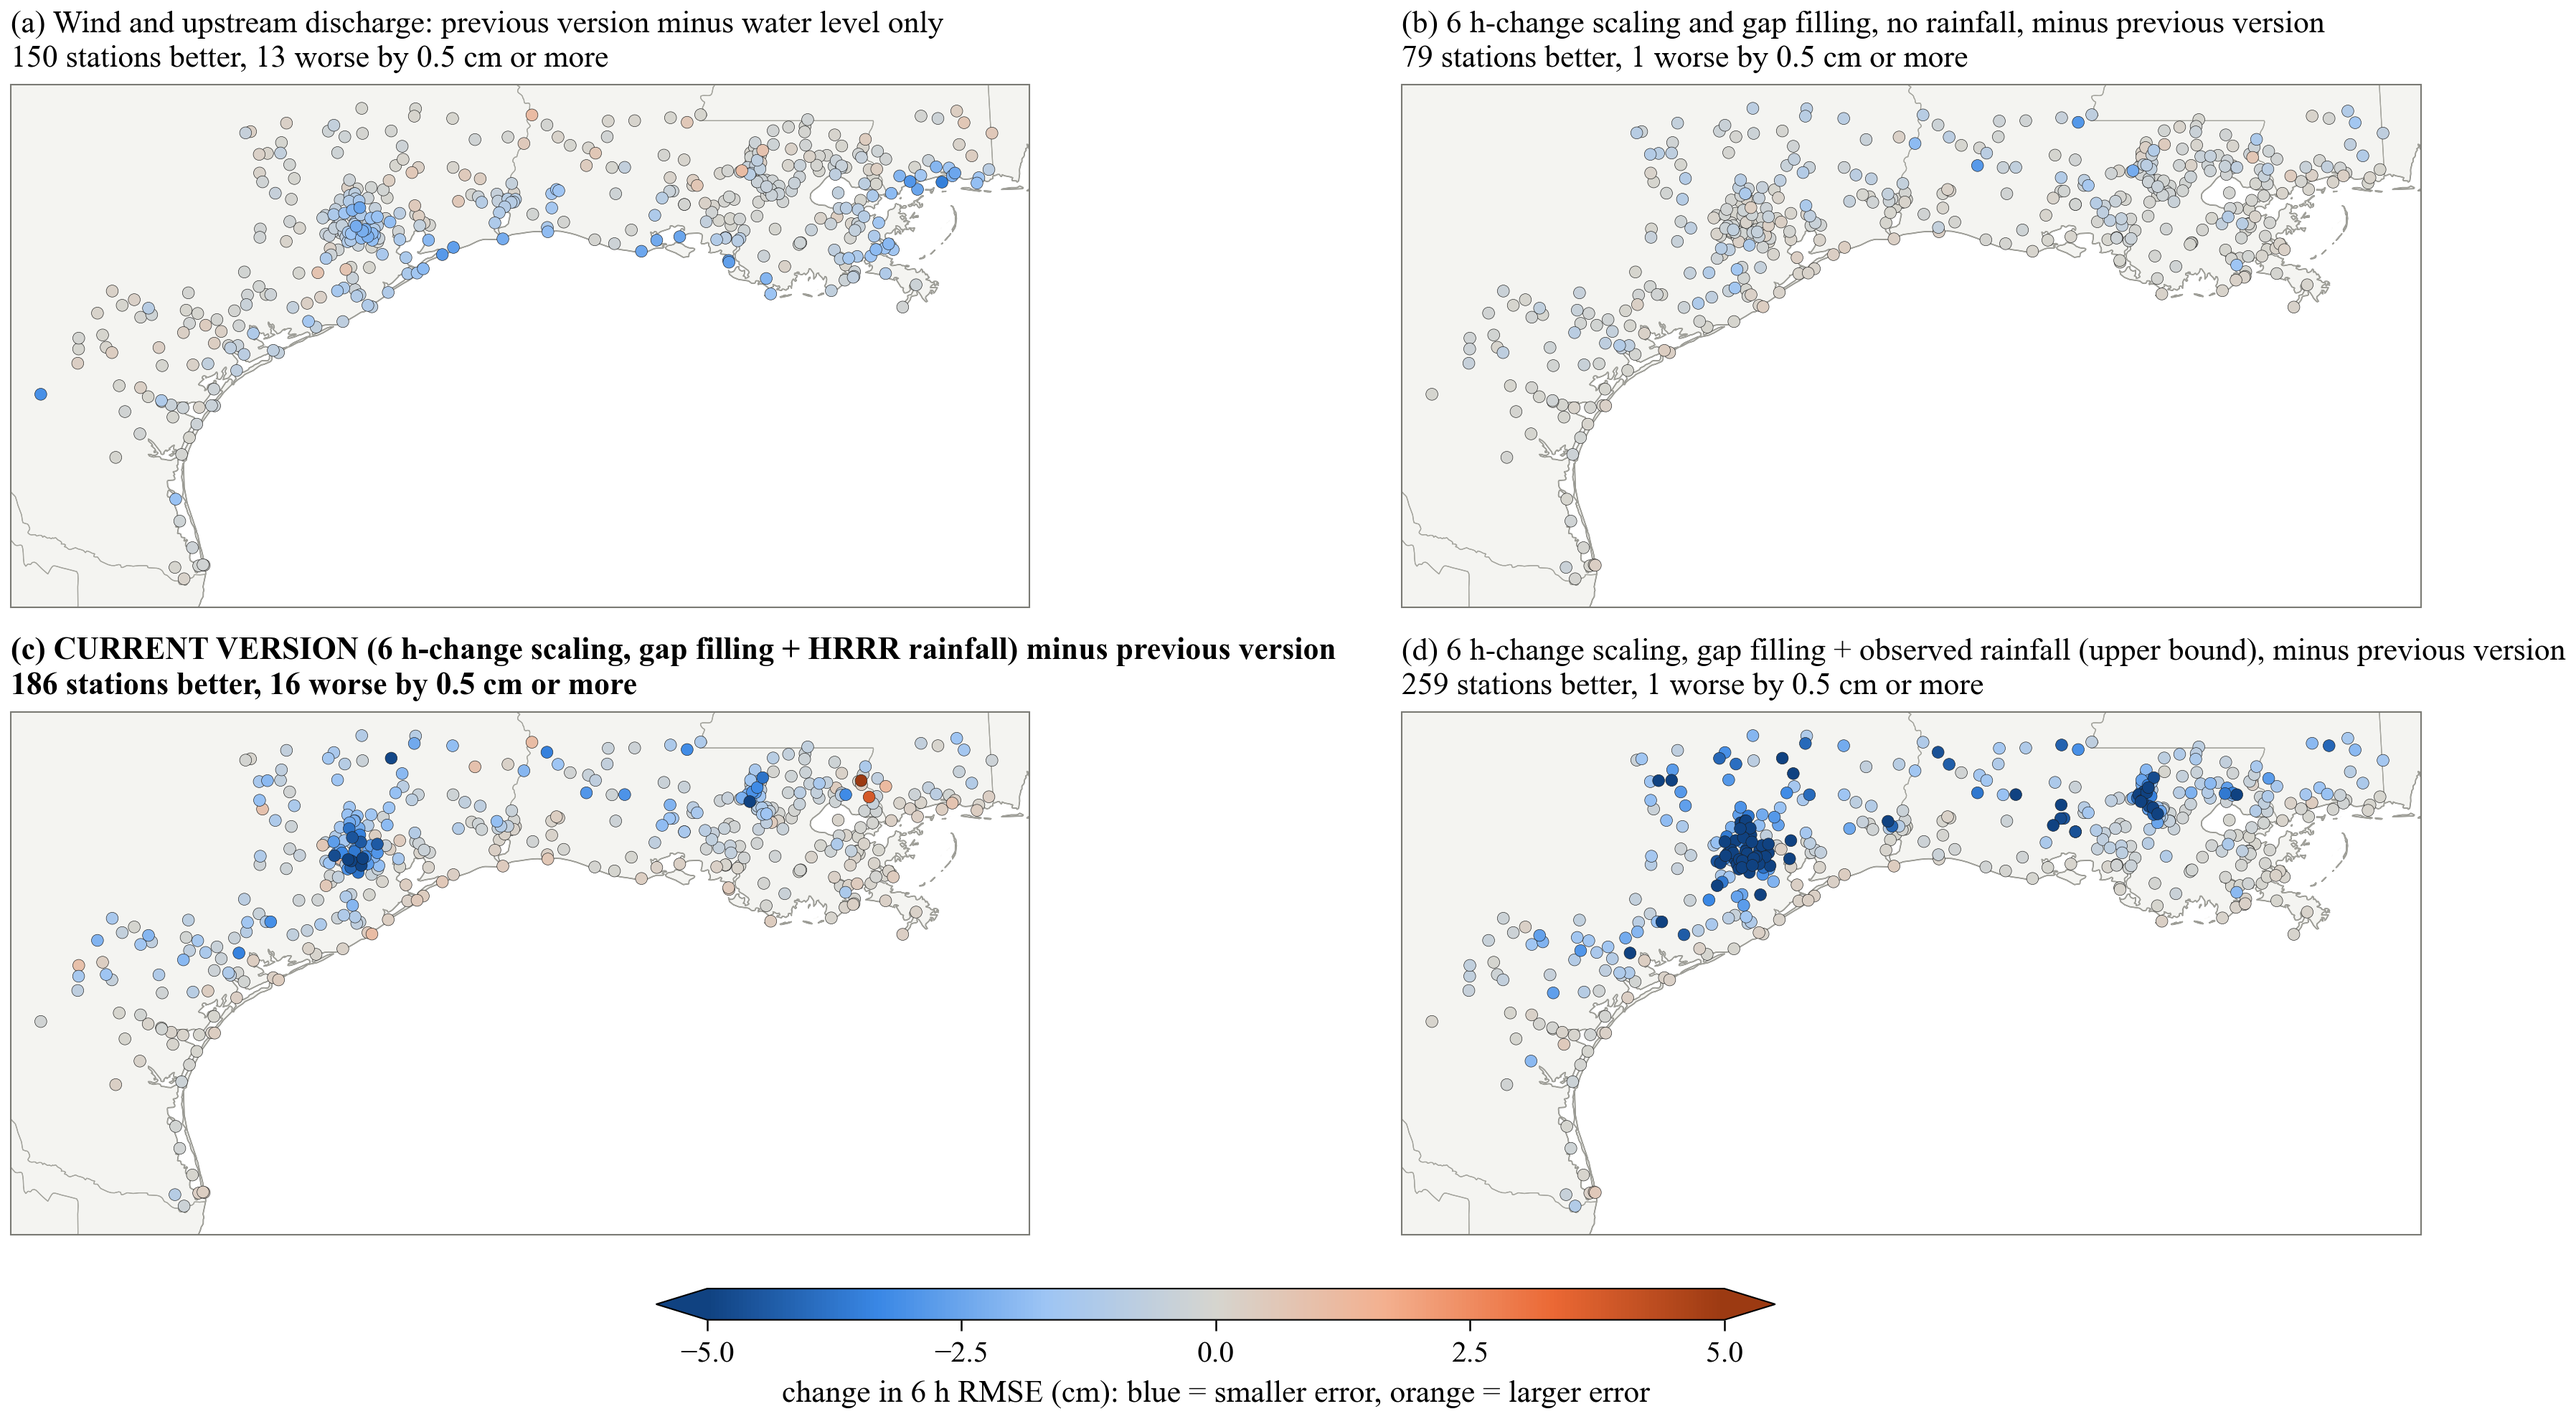
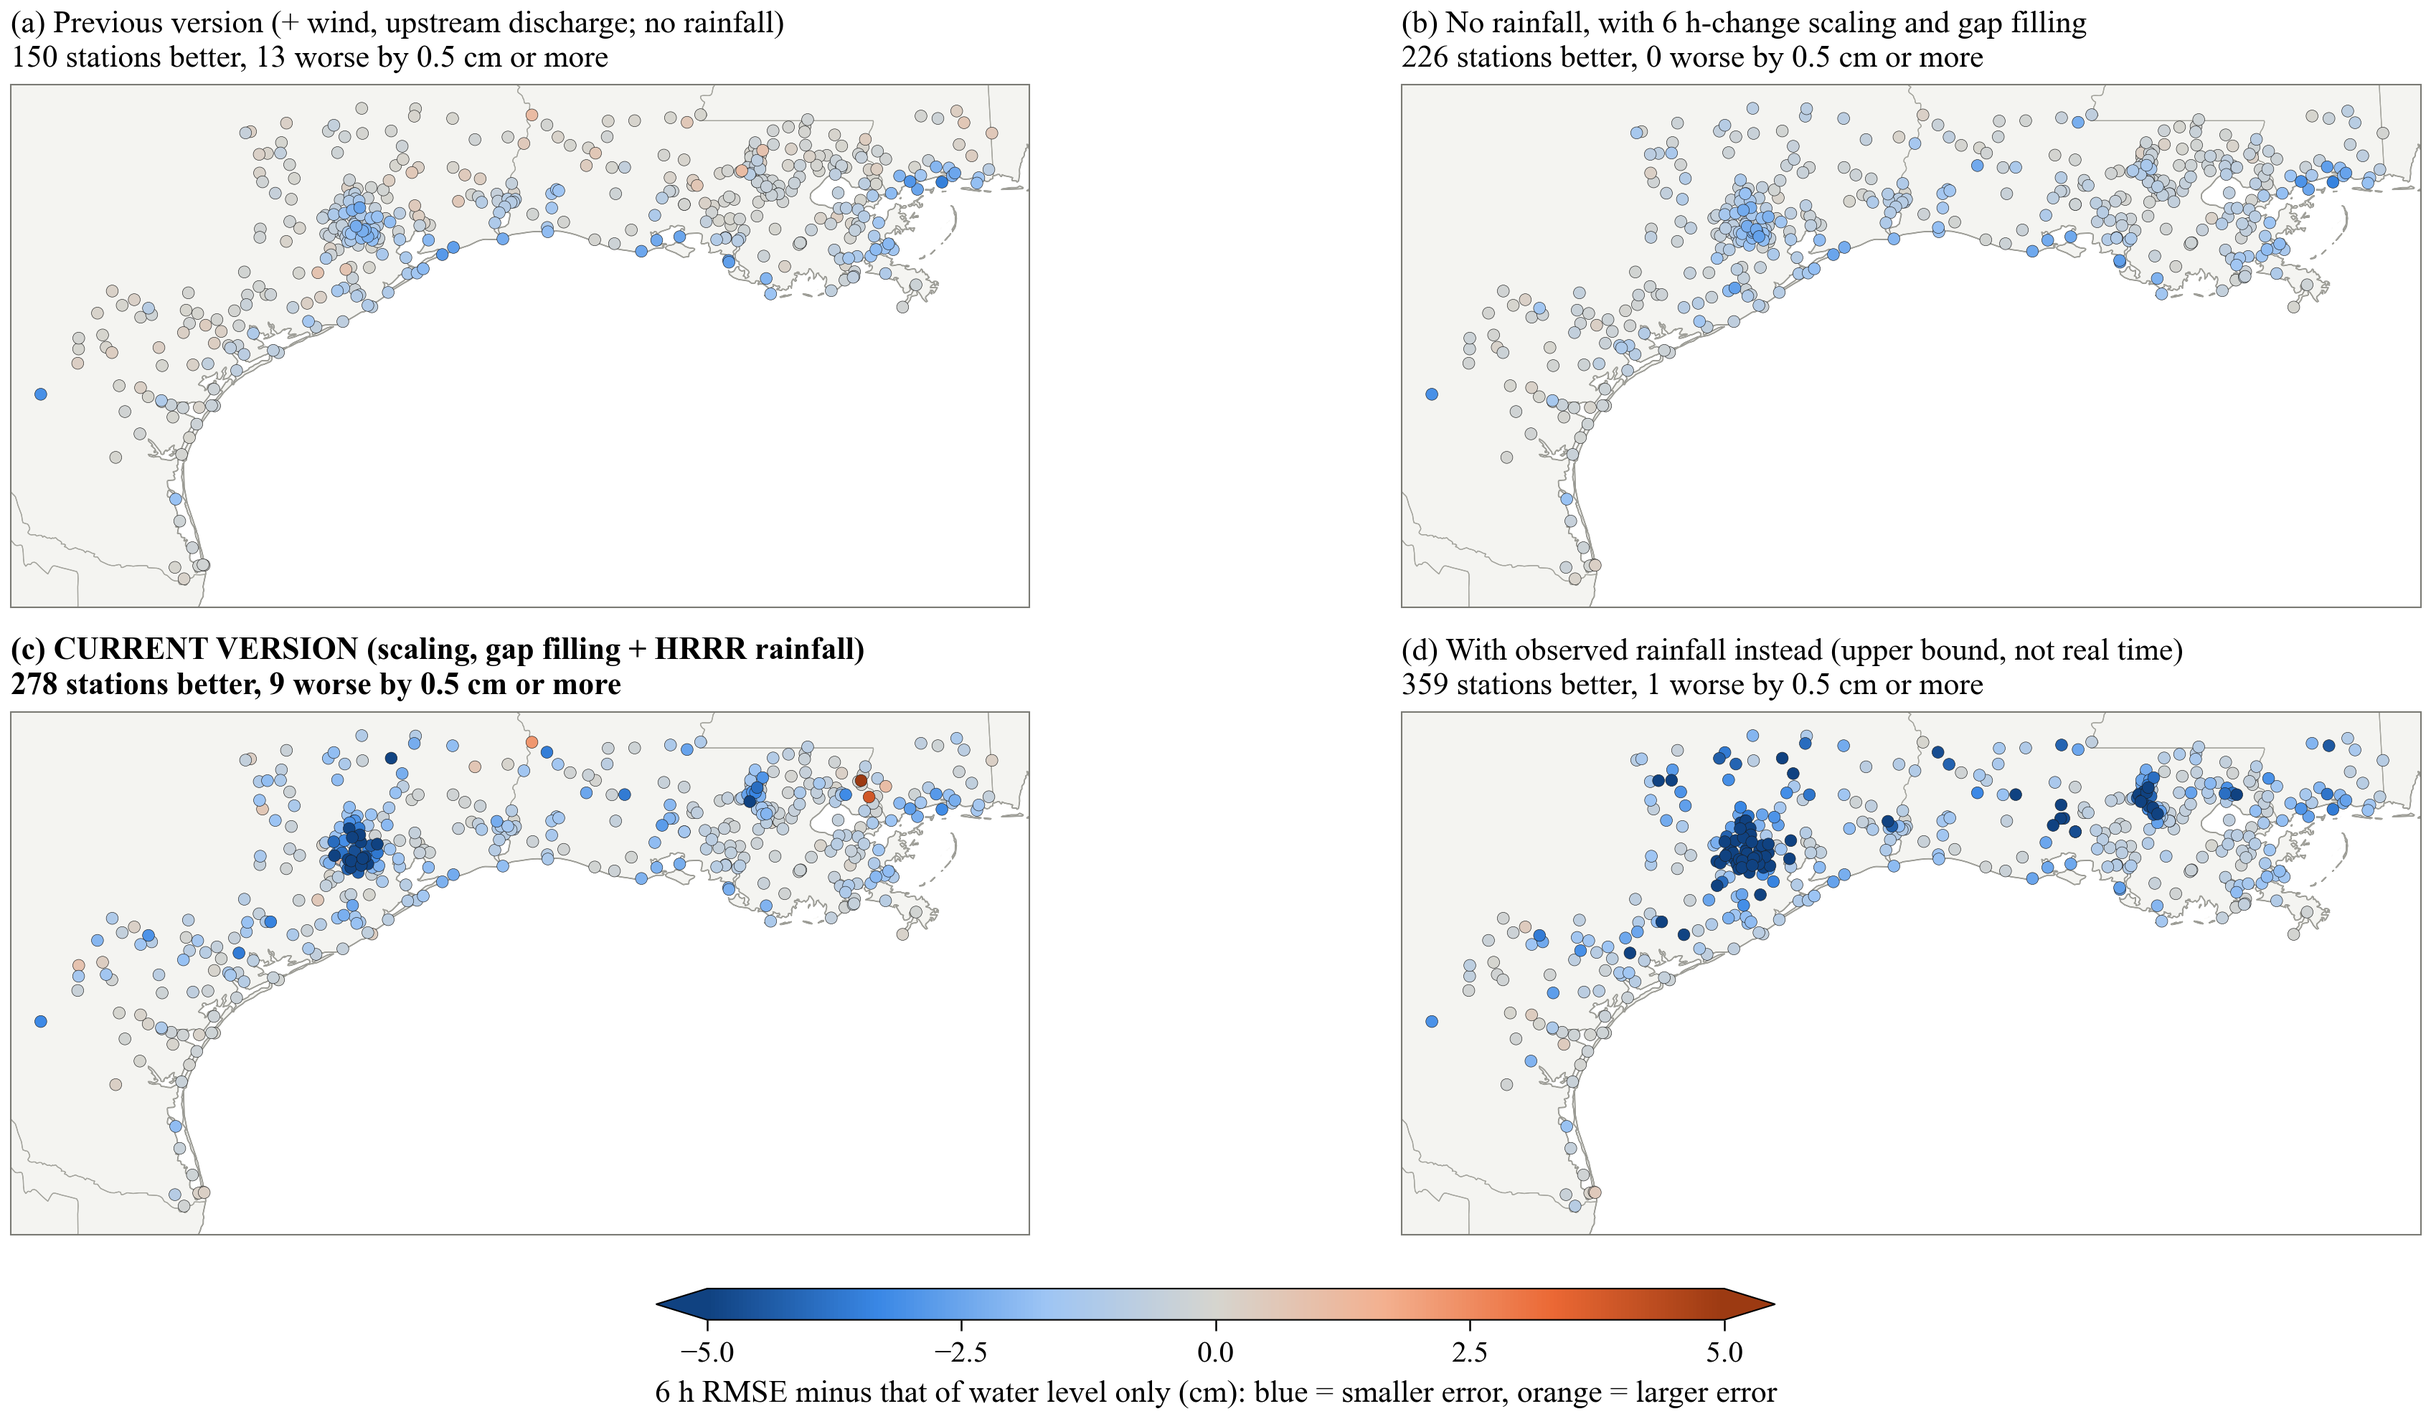
deck 17: change maps all relative to water level only (one base for the four panels); slide text rewritten to match

diff --git a/scripts/report/slides_versions.py b/scripts/report/slides_versions.py
@@ -172,20 +172,23 @@ def main() -> None:
         f"Stations above 10 cm: {above['wl']} with water level only, {above['q']} in the previous version, {above['base']} with 6 h-change scaling and gap filling, {above['base_fc']} in the current version (HRRR rainfall added), {above['base_obs']} with observed rainfall. "
         "The dark stations sit in the same two places in every map: the Houston creeks and the small rivers north and east of Baton Rouge."], size=12)
 
-    sl = new("Station by station: what each step changed")
+    sl = new("Station by station: each version against water level only")
     picture(sl, F / "versions_map_change.png", 0.3, 1.0, 8.6, 5.9)
-    b1, w1 = count("q", "wl"); b2, w2 = count("base", "q"); b3, w3 = count("base_fc", "q"); b4, w4 = count("base_obs", "q")
+    c1, d1 = count("q", "wl"); c2, d2 = count("base", "wl"); c3, d3 = count("base_fc", "wl"); c4, d4 = count("base_obs", "wl")
+    b2, w2 = count("base", "q"); b3, w3 = count("base_fc", "q")            # against the previous version: used on the closing slide
     text(sl, 9.1, 1.05, 3.9, 5.9, [
-        f"(a) Wind and discharge: {b1} stations better, {w1} worse. The gain follows the coast and the bays.",
+        "All four maps show the 6 h RMSE minus that of the water-level-only version, so they can be compared with each other.",
         "",
-        f"(b) 6 h-change scaling and gap filling: {b2} better, {w2} worse. The gain is at inland rivers; the coast does not change.",
+        f"(a) Previous version, with wind and discharge: {c1} stations better, {d1} worse. The gain follows the coast and the bays.",
         "",
-        f"(c) The same with HRRR rainfall: {b3} better, {w3} worse. The gain is in Houston and around Baton Rouge, where the rain-fed creeks are. "
+        f"(b) The same with 6 h-change scaling and gap filling: {c2} better, {d2} worse. Inland rivers are added to the gain; no station is worse than with water level only.",
+        "",
+        f"(c) Current version, with HRRR rainfall added: {c3} better, {d3} worse. Houston and the creeks around Baton Rouge turn blue. "
         "The two dark orange stations are Pearl River navigation locks, where gate operation sets the level and rainfall only misleads the model.",
         "",
-        f"(d) The same with observed rainfall: {b4} better, {w4} worse. Same places as (c), several times stronger. The difference between (c) and (d) is the error of the rainfall forecast.",
+        f"(d) With observed rainfall instead: {c4} better, {d4} worse. Same places as (c), several times stronger. The difference between (c) and (d) is the error of the rainfall forecast.",
         "",
-        "Colour scale limited to 5 cm in both directions.",
+        "Better / worse: by 0.5 cm or more. Colour scale limited to 5 cm in both directions.",
     ], size=12)
 
     # ---- 7 tried and set aside

diff --git a/scripts/report/versions_figs.py b/scripts/report/versions_figs.py
@@ -257,10 +257,11 @@ def maps() -> tuple[Path, Path]:
     out1 = OUT / "versions_map_rmse.png"
     fig.savefig(out1, dpi=300, bbox_inches="tight", pad_inches=0.05); plt.close(fig)
     # ---- (2) change maps
-    steps = [("v6_wind_q", "v3_obs", "(a) Wind and upstream discharge: previous version minus water level only"),
-             ("v10_dnorm_x_p50", "v6_wind_q", "(b) 6 h-change scaling and gap filling, no rainfall, minus previous version"),
-             ("v11_fc1_t45", "v6_wind_q", "(c) CURRENT VERSION (6 h-change scaling, gap filling + HRRR rainfall) minus previous version"),
-             ("v11_rain_obs", "v6_wind_q", "(d) 6 h-change scaling, gap filling + observed rainfall (upper bound), minus previous version")]
+    # every panel against the same base, water level only, so that the four maps can be compared with each other
+    steps = [("v6_wind_q", "v3_obs", "(a) Previous version (+ wind, upstream discharge; no rainfall)"),
+             ("v10_dnorm_x_p50", "v3_obs", "(b) No rainfall, with 6 h-change scaling and gap filling"),
+             ("v11_fc1_t45", "v3_obs", "(c) CURRENT VERSION (scaling, gap filling + HRRR rainfall)"),
+             ("v11_rain_obs", "v3_obs", "(d) With observed rainfall instead (upper bound, not real time)")]
     cmap = LinearSegmentedColormap.from_list("div", DIV); norm = Normalize(-5, 5)
     fig = plt.figure(figsize=(13.0, 6.6))
     for k, (a, b, title) in enumerate(steps):
@@ -272,7 +273,7 @@ def maps() -> tuple[Path, Path]:
     fig.subplots_adjust(left=0.01, right=0.99, top=0.93, bottom=0.12, wspace=0.03, hspace=0.2)
     cax = fig.add_axes([0.30, 0.06, 0.40, 0.022])
     cb = fig.colorbar(sc, cax=cax, orientation="horizontal", extend="both", ticks=[-5, -2.5, 0, 2.5, 5]); cb.outline.set_linewidth(0.5)
-    cb.ax.tick_params(labelsize=10); cb.set_label("change in 6 h RMSE (cm): blue = smaller error, orange = larger error", fontsize=10.5)
+    cb.ax.tick_params(labelsize=10); cb.set_label("6 h RMSE minus that of water level only (cm): blue = smaller error, orange = larger error", fontsize=10.5)
     out2 = OUT / "versions_map_change.png"
     fig.savefig(out2, dpi=300, bbox_inches="tight", pad_inches=0.05); plt.close(fig)
     return out1, out2

diff --git a/deliverables/17_versions/README.md b/deliverables/17_versions/README.md
@@ -8,7 +8,7 @@
   - 第 3 页：各版本按站点类型的 6 小时 RMSE 条形图。
   - 第 4 页：六个主要版本的 RMSE 随提前量变化（潮位站 / 河流 / 城市溪流）。
   - 第 5 页：六个主要版本各自的站点 6 小时 RMSE 地图。
-  - 第 6 页：变化量地图，四步各让哪些站变好或变差。
+  - 第 6 页：变化量地图。四张图都是「该版本减去只用水位的版本」（统一基准，2026-11-12 改；之前后三张是减前一版本）：前一版本、无降雨加缩放和缺测填充、当前版本、实测雨上限。
   - 第 7 页：试过但没有可测差别的改动。
   - 第 8 页：怎么看站点页。
   - 第 9–26 页：18 个站，一站一页，六个版本并排、两个事件窗口（飓风、飓风以外的最高水位）。画法：黑线观测，三条蓝线由浅到深是提前 1、3、6 小时的预报（每小时起报一次，连续线），灰底是峰值前后 24 小时；每列标题下是该版本在该站的全年 6 小时 RMSE。
